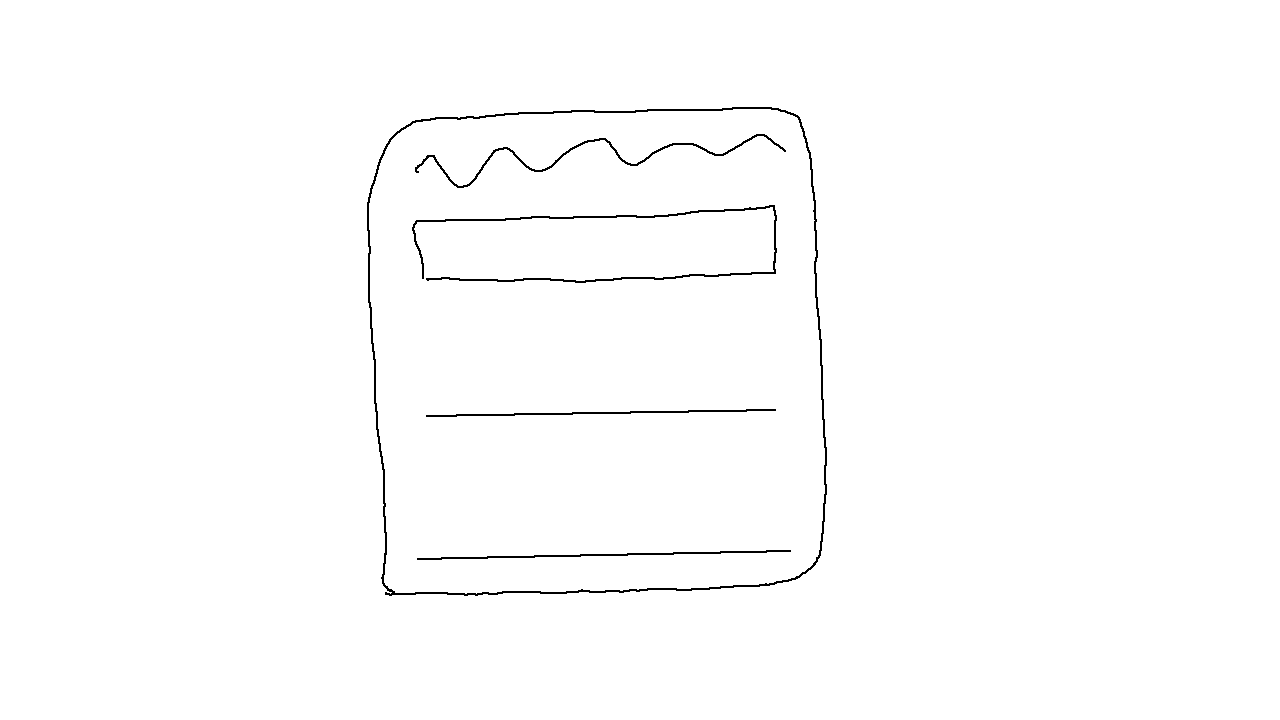
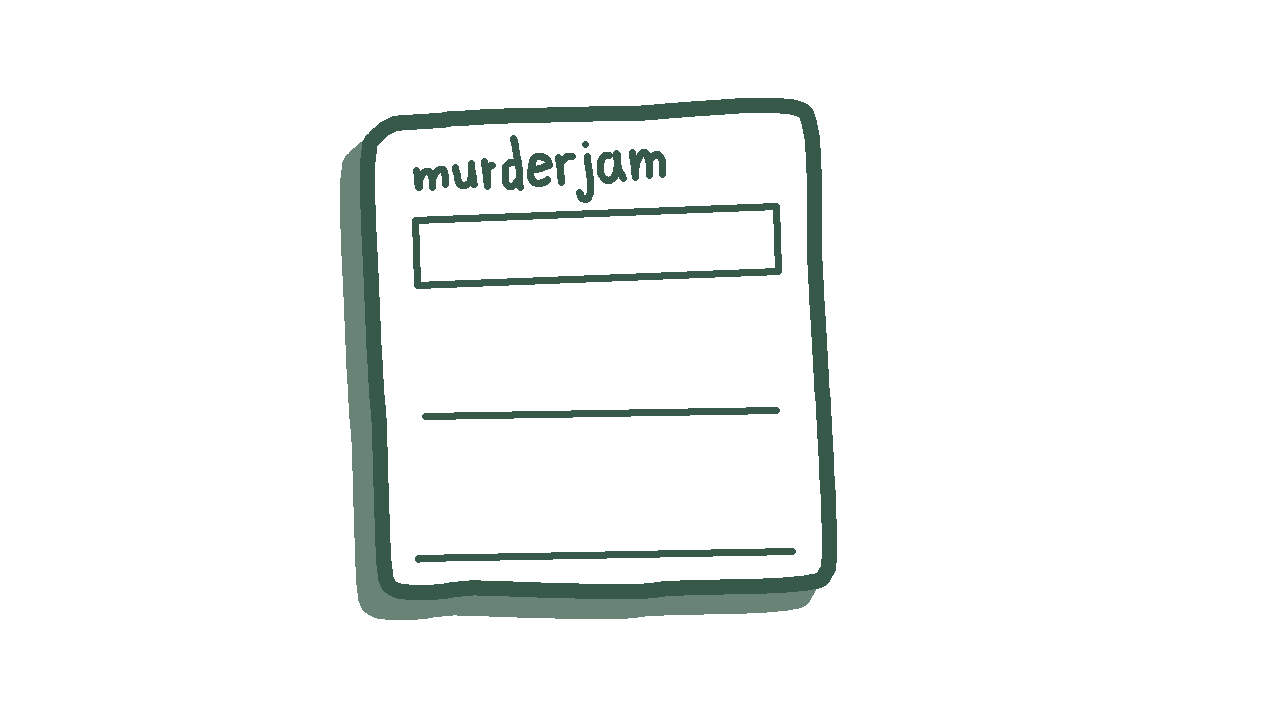
ui update

Changed region(s): [[0.25, 0.1222, 0.6562, 0.8861]]

diff --git a/index.html b/index.html
@@ -389,35 +389,40 @@
         bio.addChild(bio.bg);
         
         bio.nameLabel = new PIXI.Text("Name: ",{
-            font:"bold 24px Georgia"
+            font:"bold 48px Georgia",
+            fill:0x375949
         });
         bio.nameLabel.x = size[0]*0.36;
         bio.nameLabel.y = size[1]*0.33;
         bio.nameLabel.rotation = -0.025;
         
         bio.ageLabel = new PIXI.Text("Age: ",{
-            font:"24px Georgia"
+            font:"32px Georgia",
+            fill:0x375949
         });
         bio.ageLabel.x = size[0]*0.33;
-        bio.ageLabel.y = size[1]*0.4;
+        bio.ageLabel.y = size[1]*0.41;
         bio.ageLabel.rotation = -0.025;
         
         bio.jobLabel = new PIXI.Text("Job: ",{
-            font:"24px Georgia"
+            font:"32px Georgia",
+            fill:0x375949
         });
         bio.jobLabel.x = size[0]*0.33;
         bio.jobLabel.y = size[1]*0.45;
         bio.jobLabel.rotation = -0.025;
         
         bio.styleLabel = new PIXI.Text("Style: ",{
-            font:"24px Georgia"
+            font:"32px Georgia",
+            fill:0x375949
         });
         bio.styleLabel.x = size[0]*0.33;
-        bio.styleLabel.y = size[1]*0.5;
+        bio.styleLabel.y = size[1]*0.49;
         bio.styleLabel.rotation = -0.025;
         
         bio.traitsLabel = new PIXI.Text("Traits: ",{
-            font:"24px Georgia"
+            font:"32px Georgia",
+            fill:0x375949
         });
         bio.traitsLabel.x = size[0]*0.33;
         bio.traitsLabel.y = size[1]*0.6;
